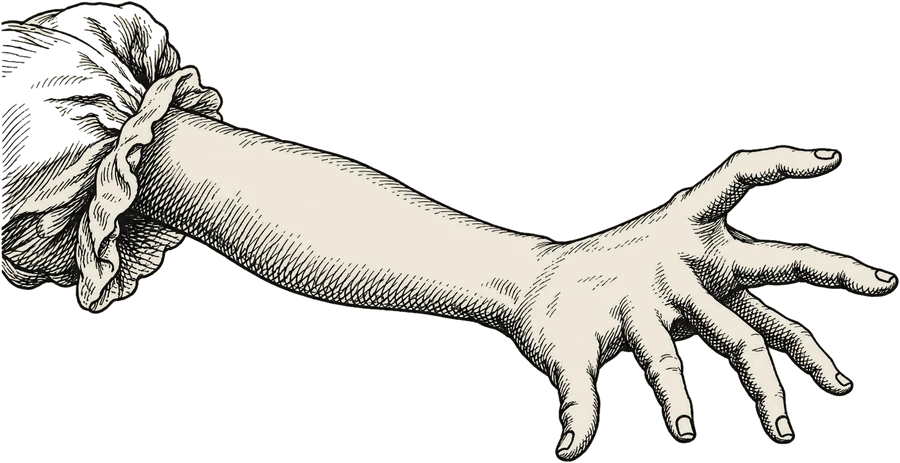
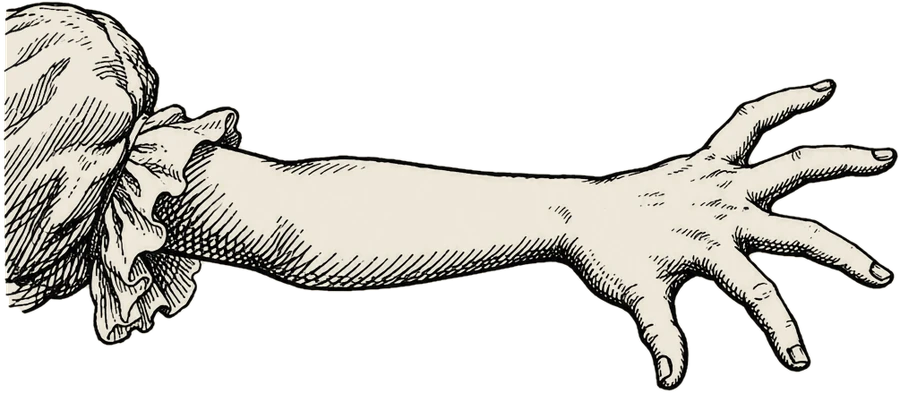
Rabbit's house as a dollhouse view; arm redrawn with five fingers
Inside shots look through a cut-away front of the house, so the whole of
Alice is in the picture as she grows (the window and her arm stay once the
arm is out). She grows until the crouching drawing fills the room. The arm
is redrawn (the first had six fingers) and sized to her. Chapter V's
mushroom shots framed so she and the Caterpillar are whole above the text.
Cue fixes in the house scene. Frame report: no gap over ~7 s in IV or V.

Claude-Session: https://claude.ai/code/session_01JLwjHTre9qSRtmM6Ke648R

diff --git a/src/scenes/rabbit.js b/src/scenes/rabbit.js
@@ -116,8 +116,8 @@ export const rabbitHouse = {
     const start = rabbitHouse.start(cue);
     const T = {
       house: at('house', 1), upstairs: at('upstairs'), dinah: at('dinah'), room: at('room', 1), bottle: at('bottle', 1), uncorked: at('uncorked'),
-      ceiling: at('ceiling'), putDown: at('bottle', 3), kneel: at('kneel'), lying: at('lying'), arm: at('arm', 2), effect: at('bottle', 4),
-      book: at('book'), voice: at('voice'), shook: at('house', 4), door: at('door', 3), window: at('window', 4), snatch: at('snatch', 1),
+      ceiling: at('ceiling'), putDown: at('bottle', 4), kneel: at('kneel'), lying: at('lying'), arm: at('arm', 2), effect: at('effect', 2),
+      book: at('book'), voice: at('voice'), shook: at('house', 4), door: at('door', 1, at('house', 4)), window: at('window', 4), snatch: at('snatch', 1),
       shriek: at('shriek'), pat: at('pat', 1), pat2: at('pat', 2), snatch2: at('snatch', 2), rumbling: at('rumbling'), heads: at('heads'),
       downChimney: at('chimney', 3), kick: at('kick', 2), goes: at('bill', 5), feeble: at('voice', 4), burn: at('burn'), dinah2: at('dinah', 2),
       barrowful: at('barrowful'), pebbles: at('pebbles'), cakes: at('cakes'), swallowed: at('swallowed'), ranOut: at('ran', 1, at('swallowed')),
@@ -131,7 +131,7 @@ export const rabbitHouse = {
     // The room: front wall (with the window), back wall (fireplace and looking-glass), sides, floor, ceiling.
     const RW = ROOM.x1 - ROOM.x0, RH = ROOM.ceil - ROOM.floor, RD = ROOM.z1 - ROOM.z0;
     const wall = (kind, w, pos, rotY) => { const m = new THREE.Mesh(new THREE.PlaneGeometry(w, RH), plain(texture(roomWall(kind)), { transparent: true, alphaTest: 0.5, side: THREE.DoubleSide })); m.position.set(...pos); m.rotation.y = rotY; house.add(m); return m; };
-    wall('window', RW, [(ROOM.x0 + ROOM.x1) / 2, ROOM.floor + RH / 2, ROOM.z1 - 0.01], Math.PI);
+    const windowWall = wall('window', RW, [(ROOM.x0 + ROOM.x1) / 2, ROOM.floor + RH / 2, ROOM.z1 - 0.01], Math.PI);
     wall('fire', RW, [(ROOM.x0 + ROOM.x1) / 2, ROOM.floor + RH / 2, ROOM.z0], 0);
     const doorWall = wall('door', RD, [ROOM.x0, ROOM.floor + RH / 2, (ROOM.z0 + ROOM.z1) / 2], Math.PI / 2);
     wall('fire', RD, [ROOM.x1, ROOM.floor + RH / 2, (ROOM.z0 + ROOM.z1) / 2], -Math.PI / 2);
@@ -140,14 +140,28 @@ export const rabbitHouse = {
     const ceil = floor.clone(); ceil.rotation.x = Math.PI / 2; ceil.position.y = ROOM.ceil; house.add(ceil);
     const table = paperFlat(texture(windowTable()), 0.5, 0.375); table.position.set(0.55, ROOM.floor, ROOM.z1 - 0.12); house.add(table);
     const bottle = paperFlat(texture(plainBottle()), 0.04, 0.08); house.add(bottle);
+    // The dollhouse view (2026-10-14): the room is seen from in front of the house, with the front
+    // cut away over it, so the whole of her is in the picture however large she grows. Once her arm is
+    // out of the window, only the part left of the window is cut, so the window and the arm stay.
+    const cutFront = (x1) => {
+      const V = (x, y) => new THREE.Vector2(x, y), i = 0.03;
+      const shape = new THREE.Shape([V(-HW / 2, 0), V(HW / 2, 0), V(HW / 2, HH), V(-HW / 2, HH)]);
+      shape.holes.push(new THREE.Path([V(ROOM.x0 + i, ROOM.floor + i), V(ROOM.x0 + i, ROOM.ceil - i), V(x1, ROOM.ceil - i), V(x1, ROOM.floor + i)]));
+      const geo = new THREE.ShapeGeometry(shape), uv = geo.attributes.uv, p = geo.attributes.position;
+      for (let n = 0; n < p.count; n++) uv.setXY(n, (p.getX(n) + HW / 2) / HW, p.getY(n) / HH);
+      const m = new THREE.Mesh(geo, front.userData.front.material); house.add(m); return m;
+    };
+    const fullCut = cutFront(ROOM.x1 - 0.03), halfCut = cutFront(WIN.x0 - 0.06);
+    const cutAt = (t) => (t < T.upstairs - 0.5 || t >= T.ranOut - 0.5 ? 'none' : t < T.arm ? 'full' : 'half');
     // Outside: the cucumber-frames under the window, and later the ladders, the barrow.
     const framesWhole = paperFlat(texture(cucumberFrames(false)), 1.4, 0.44), framesBroken = paperFlat(texture(cucumberFrames(true)), 1.4, 0.44);
     for (const f of [framesWhole, framesBroken]) { f.position.set(FRAMES.x, 0, FRAMES.z); group.add(f); }
     const lad = paperFlat(texture(ladder()), 0.5, HH + 0.1); lad.position.set(HW / 2 - 0.25, 0, 0.25); lad.rotation.x = -0.08; group.add(lad);
     const bar = paperFlat(texture(barrow()), 0.6, 0.33); bar.position.set(-1.0, 0, 1.6); group.add(bar);
     // Her arm out of the window, hanging down the front of the house.
-    const arm = paperFlat(ai['ch4/alice_hand'].tex, 1.5, 1.5 / ai['ch4/alice_hand'].aspect, { anchor: 'center' }); // AI, after Tenniel's plate 4.2
-    const armPivot = new THREE.Group(); armPivot.position.set((WIN.x0 + WIN.x1) / 2, (WIN.y0 + WIN.y1) / 2, 0.06); arm.position.x = 0.7; armPivot.add(arm); group.add(armPivot);
+    const ARM = 0.7; // shoulder to fingertips at her full size: it "fills the whole window"
+    const arm = paperFlat(ai['ch4/alice_hand'].tex, ARM, ARM / ai['ch4/alice_hand'].aspect, { anchor: 'center' }); // AI, after Tenniel's plate 4.2
+    const armPivot = new THREE.Group(); armPivot.position.set((WIN.x0 + WIN.x1) / 2, (WIN.y0 + WIN.y1) / 2, 0.06); arm.position.x = ARM * 0.44; armPivot.add(arm); group.add(armPivot);
     // Pebbles on the floor, turning into little cakes.
     const pebTex = texture(pebble()), cakeTex = texture(littleCake());
     const pebs = Array.from({ length: 9 }, (_, i) => {
@@ -162,12 +176,15 @@ export const rabbitHouse = {
     ]);
 
     // --- Alice: maid-sized, then giant, then tiny ---------------------------------
-    const GROWN = 1.55;
+    // She grows until her head is against the ceiling ("had to stoop"), then, kneeling and lying
+    // cramped, until the crouching drawing fills the room's height (it is 1 m tall at scale 1).
+    const HEAD = RH / 1.25, GROWN = (RH - 0.02) / 1.0;
     const scaleAt = (t) => {
-      if (t < T.swallowed) return lerp(MAID, GROWN, smooth((t - T.uncorked - 2) / (T.effect - T.uncorked - 2)));
-      return lerp(GROWN, TINY, smooth((t - T.swallowed - 1) / 4));
+      if (t >= T.swallowed) return lerp(GROWN, TINY, smooth((t - T.swallowed - 1) / 4));
+      if (t < T.ceiling) return lerp(MAID, HEAD, smooth((t - T.uncorked - 2.5) / (T.ceiling - T.uncorked - 2.5)));
+      return lerp(HEAD, GROWN, smooth((t - T.kneel + 1) / (T.effect - T.kneel + 1)));
     };
-    const MID = { x: 0.05, z: -0.55 };
+    const GIANT = { x: -0.33, z: -0.6 }; // against the door, left of the window
     function alice(t) {
       const scale = scaleAt(t);
       if (t < T.upstairs) { // to the door and in
@@ -178,21 +195,21 @@ export const rabbitHouse = {
         const s = route(t, [[T.ranOut, { x: DOORX, z: 0.15, dir: -1 }], [T.held - 1, { x: DOORX - 0.2, z: 0.6 }], [T.ranOff, { x: DOORX - 0.2, z: 0.6 }], [T.ranOff + 3, { x: -3.5, z: 2.2 }]], { phase: t * 3 });
         return { ...s, pose: 'stand', scale, y: 0 };
       }
-      // Inside: in from the door, to the table, then growing until she fills the room.
+      // Inside: in at the door (thinking of Dinah), to the table, to the looking-glass, then growing.
       const s = route(t, [
-        [T.upstairs, { x: ROOM.x0 + 0.1, z: -0.5, dir: 1 }], [T.room, { x: 0.35, z: ROOM.z1 - 0.3 }], [T.bottle, { x: 0.35, z: ROOM.z1 - 0.3 }],
-        [T.bottle + 3, { x: -0.25, z: ROOM.z0 + 0.3, dir: -1 }], [T.putDown, { x: -0.25, z: ROOM.z0 + 0.3 }], [T.kneel, MID],
+        [T.upstairs, { x: ROOM.x0 + 0.15, z: -0.5, dir: 1 }], [T.room - 2, { x: ROOM.x0 + 0.15, z: -0.5 }],
+        [T.room + 1, { x: 0.35, z: ROOM.z1 - 0.3 }], [T.bottle, { x: 0.35, z: ROOM.z1 - 0.3 }],
+        [T.bottle + 3, { x: -0.25, z: ROOM.z0 + 0.3, dir: -1 }], [T.kneel - 1, { x: -0.25, z: ROOM.z0 + 0.3 }], [T.kneel + 1, GIANT],
       ], { phase: t * 2.2 });
-      const lying = smooth((t - T.lying) / 3) * (1 - smooth((t - T.swallowed - 1) / 2));
-      const big = scale * 1.25 > RH;
       // AI poses (2026-10-14): the fan and gloves in her hand; drinking; then cramped, too big for the room.
-      let pose = t >= T.kneel ? 'giant' : 'stand';
+      let pose = 'stand';
       if (!s.moving && t >= T.room + 2 && t < T.bottle) pose = 'hold4';
       if (t >= T.uncorked && t < T.uncorked + 2.5) pose = 'drink';
-      const stoop = !lying && big && t < T.kneel ? Math.min(0.5, (scale * 1.25 - RH) * 2) : 0; // "had to stoop to save her neck"
+      if (t >= T.kneel && scale > 0.4) pose = 'giant';
+      const stoop = pose === 'stand' && t >= T.ceiling - 1 && t < T.kneel ? 0.12 : 0; // "had to stoop to save her neck"
       const trembling = t >= T.shook - 1 && t < T.shook + 4 ? Math.sin(t * 50) * 0.02 : 0;
       const pelted = t >= T.pebbles && t < T.pebbles + 4 ? Math.sin(t * 30) * 0.04 : 0;
-      return { ...s, pose, scale, y: ROOM.floor, tilt: lying * 0.45 + stoop + trembling + pelted, dir: t >= T.kneel ? 1 : s.dir };
+      return { ...s, pose, scale, y: ROOM.floor, tilt: stoop + trembling + pelted, dir: t >= T.kneel ? 1 : s.dir };
     }
 
     // --- The Rabbit, Pat, Bill and the crowd outside ---------------------------------
@@ -205,7 +222,7 @@ export const rabbitHouse = {
         [T.shriek, UNDER], [T.shriek + 0.4, { x: FRAMES.x, z: FRAMES.z + 0.02 }],          // into a cucumber-frame
         [T.pat + 8, { x: FRAMES.x, z: FRAMES.z + 0.02 }], [T.pat + 12, { x: FRAMES.x - 0.6, z: 1.5 }],
         [T.snatch2 - 1, { x: FRAMES.x - 0.6, z: 1.5 }], [T.rumbling + 3, { x: -0.6, z: 1.9 }],
-        [T.ranOut, { x: -0.6, z: 1.9 }], [T.held, { x: DOORX - 0.6, z: 1.0 }],
+        [T.ranOut, { x: -0.6, z: 1.9 }], [T.held, { x: DOORX + 1.0, z: 1.4 }],
       ], { pose: 'watch', phase: t * 2.4 });
       const tumble = fell && t < T.pat + 10 ? Math.min(1, (t - T.shriek) / 0.4) : 0;
       return { ...s, tilt: tumble * 1.2, y: -tumble * 0.12, dir: t > T.pat + 12 && !s.moving ? 1 : s.dir };
@@ -268,6 +285,8 @@ export const rabbitHouse = {
         const cake = smooth((t - T.cakes - i * 0.3) / 0.6);
         p.visible = landed && cake < 0.5; c.visible = landed && cake >= 0.5 && !(i === 0 && t >= T.swallowed);
       }
+      const cut = cutAt(t);
+      front.visible = cut === 'none'; fullCut.visible = cut === 'full'; halfCut.visible = cut === 'half'; windowWall.visible = cut === 'none';
       // The house trembles with her.
       house.position.x = t >= T.shook - 1 && t < T.shook + 4 ? Math.sin(t * 47) * 0.01 : 0;
       doorWall.position.z = (ROOM.z0 + ROOM.z1) / 2 + (t >= T.door && t < T.door + 3 ? Math.sin(t * 30) * 0.006 : 0); // the Rabbit tries the door
@@ -275,46 +294,63 @@ export const rabbitHouse = {
     }
 
     const IN = (pos, look) => ({ pos, look });
-    const inside = {
-      door: IN([0.85, 1.85, -0.15], [ROOM.x0, 1.75, -0.6]),
-      table: IN([-0.1, 1.85, -0.75], [0.5, 1.75, ROOM.z1]),
-      glass: IN([0.55, 1.8, -0.2], [-0.45, 1.75, ROOM.z0]),
-      wide: IN([-0.68, 2.2, -0.1], [0.4, 1.75, -0.75]),   // from the door corner: the table stays out of the lens
-      low: IN([-0.68, 1.6, -0.12], [0.3, 1.95, -0.7]),
+    // Inside: the dollhouse view, from in front of the house through its cut-away front.
+    const CUT = {
+      room: IN([0.1, 1.9, 2.4], [0.1, 1.75, -0.5]),          // the whole room
+      door: IN([-0.35, 1.9, 1.8], [-0.45, 1.78, -0.5]),      // by the door
+      table: IN([0.45, 1.88, 1.6], [0.35, 1.75, -0.4]),      // the table in the window
+      glass: IN([-0.15, 1.9, 1.7], [-0.25, 1.78, -0.8]),     // the bottle by the looking-glass
+      her: IN([-0.15, 1.92, 2.1], [-0.25, 1.8, -0.6]),       // filling the room
+      near: IN([-0.3, 1.97, 1.4], [-0.33, 1.86, -0.6]),      // closer: her face
+      both: IN([0.1, 1.95, 2.7], [-0.05, 1.82, -0.4]),       // her, and the window with her arm out of it
+      floor: IN([0.0, 1.85, 1.3], [-0.1, 1.55, -0.6]),       // the pebbles turning into cakes
+      small: IN([-0.3, 1.62, 0.9], [-0.33, 1.52, -0.6]),     // shrinking
     };
     const OUT = {
       wide: IN([0.3, 1.7, 7.5], [0.2, 1.6, 0]),
       door: IN([-0.6, 0.7, 2.6], [DOORX, 0.6, 0]),
-      window: IN([FRAMES.x + 0.9, 1.0, 2.9], [FRAMES.x - 0.2, 1.0, 0.3]),
+      house: IN([0.6, 1.4, 5.6], [0.2, 0.95, 0]),            // the house, her in it, the arm, the frames below
+      window: IN([0.8, 1.6, 3.4], [0.35, 1.5, 0]),           // "what's that in the window?"
       frames: IN([FRAMES.x + 0.6, 0.5, 2.2], [FRAMES.x - 0.1, 0.25, FRAMES.z]),
-      roof: IN([1.6, HH + 0.4, 3.4], [CHIMNEY.x, HH - 0.2, 0]),
+      roof: IN([1.2, 2.7, 4.6], [0.45, 2.15, 0]),            // the roof and the chimney, and her below
       sky: IN([1.6, 1.8, 6.0], [1.4, 2.6, 0.8]),
-      crowd: IN([0.2, 0.9, 4.6], [0.3, 0.4, 1.2]),
+      crowd: IN([0.4, 1.3, 6.2], [0.5, 0.9, 0.6]),           // the crowd below, and the house
     };
+    // Cuts (dur 0) wherever the front changes, so the cut-away never appears or vanishes in view.
     const k = (t, dur, s) => ({ t, dur, ...s });
     const camera = cameraTrack([
       k(start, 0, OUT.wide), k(start + 0.5, 4, OUT.door),                            // "a neat little house" and its brass plate
-      k(T.upstairs - 0.5, 0, inside.door), k(T.room - 1, 3, inside.table),           // "a tidy little room with a table in the window"
-      k(T.bottle - 1, 2, inside.glass),                                              // the bottle near the looking-glass
-      k(T.uncorked + 4, 4, inside.wide), k(T.kneel, 6, inside.low),                  // growing, and growing
-      k(T.arm + 2, 2, OUT.window),                                                   // the arm out of the window
-      k(T.effect, 3, inside.low),                                                    // "what will become of me?"
-      k(T.voice - 1, 2, inside.door),                                                // "Mary Ann! Mary Ann!"
-      k(T.shook - 1, 1, inside.wide),
-      k(T.window - 1, 2, OUT.window), k(T.shriek, 1, OUT.frames),                    // the snatch, and the cucumber-frame
-      k(T.pat - 1, 3, OUT.window), k(T.snatch2 - 1, 1, OUT.frames),
-      k(T.snatch2 + 6, 3, inside.low),                                               // waiting
-      k(T.rumbling, 4, OUT.crowd), k(T.heads - 2, 3, OUT.wide),                      // the cart, the ladders, "Heads below!"
-      k(T.downChimney, 3, OUT.roof),                                                 // Bill to the chimney
-      k(T.kick - 4, 2, inside.low),                                                  // her foot up the chimney
-      k(T.kick, 0.5, OUT.sky),                                                       // "There goes Bill!"
-      k(T.feeble - 3, 3, OUT.crowd),
-      k(T.burn, 2, inside.wide),                                                     // "If you do, I'll set Dinah at you!"
-      k(T.barrowful - 1, 3, OUT.crowd), k(T.pebbles - 0.5, 1, inside.low),           // the pebbles
-      k(T.cakes, 2, IN([0.6, 1.62, -0.15], [0.0, ROOM.floor, -0.6])),                // turning into little cakes
-      k(T.swallowed + 1, 3, inside.wide),
-      k(T.ranOut - 0.5, 0, IN([DOORX + 0.5, 0.25, 1.4], [DOORX, 0.12, 0.2])),        // out of the door, tiny, and the crowd
-      k(T.held, 3, IN([DOORX + 0.9, 0.3, 1.9], [DOORX + 0.1, 0.15, 0.9])),
+      k(T.upstairs - 0.5, 0, CUT.room),                                              // in at the door upstairs
+      k(T.dinah - 8, 8, CUT.door),                                                   // thinking of Dinah
+      k(T.room - 2, 4, CUT.room), k(T.room + 1.5, 3, CUT.table),                     // "a tidy little room with a table in the window"
+      k(T.bottle - 0.5, 3, CUT.glass),                                               // the bottle near the looking-glass
+      k(T.uncorked + 3, 6, CUT.room),                                                // growing
+      k(T.ceiling - 3, 4, CUT.her), k(T.putDown, 5, CUT.near),                       // the ceiling; "That's quite enough"
+      k(T.kneel - 2, 5, CUT.her),                                                    // kneeling, lying down
+      k(T.arm, 0, OUT.house), k(T.arm + 4, 4, OUT.window),                           // the arm out of the window
+      k(T.effect, 0, CUT.both), k(T.effect + 13, 8, CUT.near),                       // "it was much pleasanter at home"
+      k(T.book - 4, 6, CUT.her), k(T.book + 14, 8, CUT.near),
+      k(T.voice - 4, 5, CUT.both),                                                   // a voice outside; trembling
+      k(T.door - 1, 3, CUT.door),                                                    // the Rabbit at the door
+      k(T.window - 1, 0, OUT.house),                                                 // round to the window
+      k(T.shriek, 0, OUT.frames), k(T.shriek + 5, 0, CUT.her),                       // the shriek, the cucumber-frame
+      k(T.pat - 3, 0, OUT.house), k(T.pat2 - 1, 4, OUT.window),                      // Pat; "what's that in the window?"
+      k(T.pat2 + 18, 0, CUT.near),                                                   // a long silence, and whispers
+      k(T.snatch2 - 1, 0, OUT.house), k(T.snatch2 + 2, 0, OUT.frames),               // the second snatch
+      k(T.snatch2 + 6, 0, CUT.her),                                                  // "What a number of cucumber-frames"
+      k(T.rumbling - 1, 0, OUT.crowd), k(T.rumbling + 10, 6, OUT.house),             // the cart, the ladders
+      k(T.heads - 3, 3, OUT.roof), k(T.heads + 4, 0, CUT.near),                      // "Heads below!"
+      k(T.downChimney + 8, 0, OUT.roof),                                             // Bill up the ladder to the chimney
+      k(T.kick - 9, 0, CUT.her),                                                     // her foot down the chimney
+      k(T.kick - 0.5, 0, OUT.sky), k(T.kick + 4, 4, OUT.crowd),                      // "There goes Bill!"
+      k(T.feeble - 5, 0, CUT.near), k(T.feeble, 0, OUT.crowd),                       // Bill's feeble voice
+      k(T.burn - 1, 0, CUT.her), k(T.dinah2 + 2, 4, CUT.near),                       // "I'll set Dinah at you!"
+      k(T.barrowful - 2, 0, OUT.crowd),                                              // "A barrowful will do"
+      k(T.pebbles - 1, 0, CUT.her),                                                  // the pebbles in at the window
+      k(T.cakes - 3, 4, CUT.floor),                                                  // turning into little cakes
+      k(T.swallowed, 3, CUT.her), k(T.swallowed + 3, 3, CUT.small),                  // shrinking
+      k(T.ranOut - 0.5, 0, IN([DOORX - 0.7, 0.28, 1.6], [DOORX - 0.05, 0.12, 0.5])),   // out of the door, tiny, and the crowd
+      k(T.held, 3, IN([DOORX - 0.8, 0.32, 1.9], [DOORX + 0.05, 0.14, 0.75])),
     ]);
     return {
       T, bg: PAPER, fog: [9, 30], bounds: { minX: -2.5, maxX: 2.5, minZ: 0.8, maxZ: 6 },
@@ -408,7 +444,7 @@ export const wood = {
       { t: T.escape, dur: 6, pos: [-0.6, 0.15, 0.6], look: [-1.2, 0.08, -0.2] },               // running till she was quite tired
       { t: T.buttercup - 1, dur: 3, pos: [-1.05, 0.12, 0.25], look: [BC.x, 0.12, BC.z] },       // leaning against a buttercup
       { t: T.mushroom - 1, dur: 4, pos: [-1.35, 0.11, 0.2], look: [MU.x, 0.1, MU.z] },          // the mushroom
-      { t: T.caterpillar - 1, dur: 2, pos: [-1.55, 0.2, -0.2], look: [MU.x, 0.17, MU.z] },      // eyes met those of a large blue caterpillar
+      { t: T.caterpillar - 1, dur: 2, pos: [-1.4, 0.16, 0.05], look: [MU.x + 0.02, 0.1, MU.z] },       // eyes met those of a large blue caterpillar
     ]);
     return {
       T, bg: PAPER, fog: [6, 24], bounds: null, hotspots: [],

diff --git a/src/scenes/caterpillar.js b/src/scenes/caterpillar.js
@@ -104,17 +104,21 @@ export const mushroomTalk = {
       const a = alice(t);
       think(t, { x: a.x + 0.12, y: 0.19, z: a.z - 0.02 }, 0.1);
     }
+    // (2026-10-14) Framed a little higher, so her feet are above the text strip, and both she and the
+    // Caterpillar are in the conversation shot.
+    const TALK = { pos: [0.25, 0.11, 0.48], look: [0.02, 0.1, 0] };
     const camera = cameraTrack([
-      { t: 0, dur: 0, pos: [0.28, 0.13, 0.42], look: [0.04, 0.12, 0] },                        // looking at each other in silence
-      { t: 8, dur: 4, pos: [0.16, 0.09, 0.3], look: [0.02, 0.15, 0] },                         // "Who are you?"
-      { t: T.gravely - 1, dur: 2, pos: [0.3, 0.1, 0.32], look: [0.08, 0.11, 0.05] },
-      { t: T.turned, dur: 3, pos: [0.45, 0.14, 0.5], look: [0.15, 0.1, 0.05] },                // turning away, and coming back
-      { t: T.back + 3, dur: 3, pos: [0.16, 0.09, 0.3], look: [0.02, 0.15, 0] },
-      { t: T.folded - 1, dur: 3, pos: [0.38, 0.12, 0.42], look: [0.18, 0.11, 0.05] },          // Father William, in Tenniel's plates
-      { t: T.notRight, dur: 3, pos: [0.16, 0.09, 0.3], look: [0.02, 0.15, 0] },
+      { t: 0, dur: 0, pos: [0.3, 0.13, 0.5], look: [0.04, 0.1, 0] },                           // looking at each other in silence
+      { t: 8, dur: 4, ...TALK },                                                               // "Who are you?"
+      { t: T.gravely - 1, dur: 2, pos: [0.34, 0.11, 0.42], look: [0.08, 0.1, 0.05] },
+      { t: T.turned, dur: 3, pos: [0.45, 0.14, 0.55], look: [0.15, 0.09, 0.05] },                // turning away, and coming back
+      { t: T.back + 3, dur: 3, ...TALK },
+      { t: T.folded - 1, dur: 3, pos: [0.38, 0.12, 0.42], look: [0.18, 0.09, 0.05] },          // Father William, in Tenniel's plates
+      { t: T.notRight, dur: 3, ...TALK },
       { t: T.rearing - 1, dur: 1.5, pos: [0.12, 0.13, 0.22], look: [0.01, 0.2, 0] },           // "a very good height indeed!"
+      { t: T.rearing + 5, dur: 3, ...TALK },
       { t: T.crawled - 1, dur: 4, pos: [0.3, 0.12, 0.45], look: [0.15, 0.06, -0.05] },
-      { t: T.broke - 2, dur: 3, pos: [0.14, 0.12, 0.28], look: [0.02, 0.1, 0.03] },            // a bit of the edge with each hand
+      { t: T.broke - 2, dur: 3, pos: [0.14, 0.12, 0.28], look: [0.02, 0.08, 0.03] },            // a bit of the edge with each hand
       { t: T.blow - 0.3, dur: 1, pos: [0.1, 0.05, 0.2], look: [0.04, 0.03, 0.05] },             // chin against her foot
     ]);
     return {

diff --git a/docs/HANDOFF.md b/docs/HANDOFF.md
@@ -19,14 +19,15 @@ Updated: 2026-10-13 (end of session 3: Chapters I–II art in, Chapter III's Ali
   - **Riverbank ground** (2026-10-14, owner): meadow grass with daisies tiled over the floor and a grassy bank lip in front (`tools/bank_art.py`; `BANK_TILE` in stage.js = 1.6 m per tile). Later, at Chapter XII: the pool with reeds beside the bank (owner: "at the right time").
   - **Chapter II**: complete (all 36): Alice ×13, Rabbit ×3, Mouse ×4, the four birds swimming and standing, gloves, splash, pool water, shore stones, 7 thoughts.
   - **Chapter III**: all 8 Alice poses and the four birds standing; the rest placeholder.
-  - **Chapter V**: the Caterpillar (blue), also at Chapter IV's end. **Chapter VI**: the Cheshire Cat in the wood (on his bough, the empty bough, the grin alone); the Cat on the kitchen hearth (prompt 22), the Duchess (all her poses, prompts 14–16), the Footmen (10–13: the letter is in the Fish-Footman's drawing, the bow is one drawing of both), the Cook (17, 18), the baby and the pig (19–21; the snout drawing also stands for the pig in its clothes), the kitchen's back wall (23; the side walls are still drawn in code). Alice's 9 poses (2026-10-14: laughing, peeping, knocking, sneezing, jumping in terror, catching and holding the baby, carrying it, the pig, from behind under the Cat). Camera re-directed (2026-10-14): Alice in the picture at least every ~10 s (frame_report). Sets and props done 2026-10-14: the little house (also V), the March Hare's house (also VII), the kitchen's side walls (kitchen made deeper so the camera stays inside), the thrown things. Not needed: the stool (hidden by her skirts, owner), the pepper-box (in the Cook's drawing), a separate bough tree (the Cat's drawing has its bough). The Cat waving and the two thoughts done too: **Chapter VI's art is complete** apart from the extras the owner ruled out.
+  - **Chapter IV** (2026-10-14): Alice's 8 poses (holding the fan and gloves, drinking, cramped giant with an arm round her head, her arm out of the window (`ch4/alice_hand`, after plate 4.2), pebbles (unused so far), holding out the stick, by the buttercup, on tiptoe; hunting for the fan reuses `stoop`: the filter refused bending poses). **The Rabbit's house is a dollhouse view**: inside shots are taken from in front of the house through a cut-away front (the whole room cut until her arm goes out, then only the part left of the window, so the window and the arm stay); she grows until the crouching drawing just fills the room. Cue fixes: put-down bottle, "full effect", the Rabbit at the door. frame_report: no gap over ~7 s. Still placeholder: Bill, the guinea-pigs, Pat, the puppy, the Chapter III crowd.
+  - **Chapter V**: the Caterpillar (blue), also at Chapter IV's end. Alice's 7 poses (2026-10-14: looking up, grave, turned away, reciting with folded hands (`recite5`), breaking the mushroom, nibbling, squashed); mushroom shots framed so both she and the Caterpillar are whole above the text. Still placeholder: the Pigeon, the long neck. **Chapter VI**: the Cheshire Cat in the wood (on his bough, the empty bough, the grin alone); the Cat on the kitchen hearth (prompt 22), the Duchess (all her poses, prompts 14–16), the Footmen (10–13: the letter is in the Fish-Footman's drawing, the bow is one drawing of both), the Cook (17, 18), the baby and the pig (19–21; the snout drawing also stands for the pig in its clothes), the kitchen's back wall (23; the side walls are still drawn in code). Alice's 9 poses (2026-10-14: laughing, peeping, knocking, sneezing, jumping in terror, catching and holding the baby, carrying it, the pig, from behind under the Cat). Camera re-directed (2026-10-14): Alice in the picture at least every ~10 s (frame_report). Sets and props done 2026-10-14: the little house (also V), the March Hare's house (also VII), the kitchen's side walls (kitchen made deeper so the camera stays inside), the thrown things. Not needed: the stool (hidden by her skirts, owner), the pepper-box (in the Cook's drawing), a separate bough tree (the Cat's drawing has its bough). The Cat waving and the two thoughts done too: **Chapter VI's art is complete** apart from the extras the owner ruled out.
   - **Chapters IX–X**: the Mock Turtle, every pose (sitting, sobbing into a handkerchief, counting, hiding his face, dancing, singing, yawning; the rock taken out of the sitting drawing so he sits on the set's ledge; puppet `drop` lets his tail hang below his hooves), and the Duchess in Chapter IX (arm in arm, trembling, running). `tools/ch9_art.py` processes both and prints each drawing's height and drop. The Gryphon, every pose (sitting, asleep, walking, paws up, hiding his face, dancing, bounding), 2026-10-14. Chapter XII's dream shows the new Duchess, baby, Gryphon and Mock Turtle.
   - **Chapter VII (and XI, XII)**: the Hatter (sitting: staring, riddle, watch; as a witness: teacup, pale, biting the cup, shoes shaken off, on one knee, running), the March Hare (sitting, dipping the watch), the Dormouse (asleep, telling his story), 2026-10-14 (`tools/ch7_art.py`). The safety filter blocks some Hatter prompts at random: reword and retry.
   - **Court cards (VIII–XII)**: the Queen (7 poses incl. crimson and purple faces), the King (standing; as judge ×5), the Knave (carrying the crown, standing, in chains), the executioner (Ace of Spades), 2026-10-14.
   - **The gardeners Two, Five, Seven** (2026-10-14): fully drawn, pips checked. The rose-tree (roses placed by the game at `SPOTS` in sets/croquet.js, white or painted red), and the card back lying face down (one drawing for the whole pack; turned over, the gardener's own drawing lies flat).
   - **Card people plan (owner, 2026-10-14):** cards with parts in the story are drawn as characters (done: Queen, King, Knave, executioner, gardeners). The crowds (soldiers with clubs, courtiers with diamonds, the royal children, the officers) are blank-faced bodies per class (~8-10 drawings) with pips placed by the game, but the pips are four engraved AI suit signs (not flat code shapes), bent with the card. The guests "mostly Kings and Queens" are court cards: the Kings and Queens of Clubs, Diamonds, Spades and the Knave of Spades, one standing drawing each.
   - **Crowd cards done (2026-10-14)**: `src/cards.js` `crowdCard(ai, who, h)` composes any number card from its class body + the engraved suit sign (pips only on blank paper, so hands/bags hide them), and returns the guest court cards; the croquet arches are a soldier bent into a hoop.
-  - Still to generate (owner, 2026-10-14: every character): Bill, the guinea-pigs, Pat, the puppy (IV), the Pigeon (V), the Owl, Magpie, Canary, crabs (III), flamingos, hedgehogs (VIII), the jurors (XI), and Alice's poses for IV, V, VII–XII.
+  - Still to generate (owner, 2026-10-14: every character): Bill, the guinea-pigs, Pat, the puppy (IV), the Pigeon (V), the Owl, Magpie, Canary, crabs (III), flamingos, hedgehogs (VIII), the jurors (XI), and Alice's poses for III (done), VII–XII.
   - The rest of the book is placeholder art drawn in code.
 - **Alice's walk**: two matching steps from one drawing (`alice_walk_pair`); keep it. **Do not generate the walk cycle** (owner, 2026-10-13: the owner will make it later; the API attempts got the arms and legs wrong).
 - **Chapter I's audio starts with 4.14 s of added silence** (owner, 2026-10-14: a 5 s hold in the theatre seat before "CHAPTER I"; `lead_silence` in ch01_words.json, all times shifted). If `tools/narration.py`/`forced_align.py` is ever rerun for Chapter I, add the silence and the shift again (original audio: `ffmpeg -ss 4.14`).

diff --git a/docs/ASSETS_MASTER.md b/docs/ASSETS_MASTER.md
@@ -1,7 +1,7 @@
 # Master Asset List
 Generated by `tools/assets_master.py` from the chapter lists. **Don't edit by hand**: change the chapter list in `docs/ART_PROMPTS.md` (and the reasons in `docs/CHAPTER_NN_ASSETS.md`), then run the script.
 
-**Progress:** 152 of 371 images received. A box is ticked when a file with that name is in `source/ai/`.
+**Progress:** 167 of 371 images received. A box is ticked when a file with that name is in `source/ai/`.
 
 ## How to use this document
 1. Use **one ChatGPT conversation** for everything, so the style and the characters stay the same.
@@ -226,15 +226,15 @@ Background and sources: [CHAPTER_04_ASSETS.md](CHAPTER_04_ASSETS.md). Same conve
 
 ### Alice (whole figures on white unless stated, three-quarter view facing left)
 - [ ] **1.** `alice4_hunt.png`: "Same Alice, full figure: bent forward, hunting about on the ground for something she has lost."
-- [ ] **2.** `alice4_hold.png`: "Same Alice, full figure: holding a folding fan and a pair of small gloves in one hand, turning her head to look at something on a table behind her."
-- [ ] **3.** `alice4_drink.png`: "Same Alice, full figure: drinking from a small bottle, head tipped back."
-- [ ] **4.** `alice4_giant.png` (landscape; attach 4.1): "Our Alice in Tenniel's pose from this plate: so large she fills a small room, lying on her side, one elbow pressed against the door, the other arm out of the window, one foot up the chimney, her head bent under the ceiling. Draw the room around her as in the plate, our Alice's face and hair."
-- [ ] **5.** `alice4_hand.png` (attach 4.2): "Our Alice's enormous arm and hand reaching out of a small cottage window, fingers spread, snatching at the air, as in this plate. Just the arm, hand and window; white background."
+- [x] **2.** `alice4_hold.png`: "Same Alice, full figure: holding a folding fan and a pair of small gloves in one hand, turning her head to look at something on a table behind her."
+- [x] **3.** `alice4_drink.png`: "Same Alice, full figure: drinking from a small bottle, head tipped back."
+- [x] **4.** `alice4_giant.png` (landscape; attach 4.1): "Our Alice in Tenniel's pose from this plate: so large she fills a small room, lying on her side, one elbow pressed against the door, the other arm out of the window, one foot up the chimney, her head bent under the ceiling. Draw the room around her as in the plate, our Alice's face and hair."
+- [x] **5.** `alice4_hand.png` (attach 4.2): "Our Alice's enormous arm and hand reaching out of a small cottage window, fingers spread, snatching at the air, as in this plate. Just the arm, hand and window; white background."
 - [ ] **6.** `alice4_foot.png`: "Our Alice's enormous foot in a white stocking and strap shoe, pushed up into a narrow fireplace and chimney, about to kick. Just the foot and fireplace."
-- [ ] **7.** `alice4_pebbles.png`: "Same Alice, head and shoulders, wincing and shielding her face with one hand as small pebbles fly at her."
-- [ ] **8.** `alice4_stick.png` (attach 4.4): "Same Alice in Tenniel's pose from this plate: half behind a great thistle, holding out a small stick, frightened. Our Alice's face and dress."
-- [ ] **9.** `alice4_buttercup.png`: "Same Alice, full figure: leaning against the stalk of a buttercup taller than she is, fanning herself with a leaf, out of breath."
-- [ ] **10.** `alice4_tiptoe.png`: "Same Alice, full figure: standing on tiptoe, peeping over the edge of something just above her head."
+- [x] **7.** `alice4_pebbles.png`: "Same Alice, head and shoulders, wincing and shielding her face with one hand as small pebbles fly at her."
+- [x] **8.** `alice4_stick.png` (attach 4.4): "Same Alice in Tenniel's pose from this plate: half behind a great thistle, holding out a small stick, frightened. Our Alice's face and dress."
+- [x] **9.** `alice4_buttercup.png`: "Same Alice, full figure: leaning against the stalk of a buttercup taller than she is, fanning herself with a leaf, out of breath."
+- [x] **10.** `alice4_tiptoe.png`: "Same Alice, full figure: standing on tiptoe, peeping over the edge of something just above her head."
 
 ### The White Rabbit
 - [ ] **11.** `rabbit4_search.png`: "The White Rabbit trotting slowly, looking anxiously about at the ground as if he had lost something. Side view facing left."
@@ -282,13 +282,13 @@ Background and sources: [CHAPTER_05_ASSETS.md](CHAPTER_05_ASSETS.md). Same conve
 **References to download first:** 5.1 (the Caterpillar) https://victorianweb.org/art/illustration/tenniel/alice/5.1.html. The Father William plates 5.2–5.5 are recommended for use as they are (no prompts needed); prompts 18–21 are only if you'd rather have new drawings.
 
 ### Alice (whole figures on white, three-quarter view facing left unless stated)
-- [ ] **1.** `alice5_lookup.png` (attach 5.1): "Same Alice, full figure: standing, looking up at something just above her head, hands behind her back, polite and a little shy."
-- [ ] **2.** `alice5_grave.png`: "Same Alice, full figure: drawing herself up very straight and grave, chin raised."
-- [ ] **3.** `alice5_away.png`: "Same Alice, full figure: turning away, seen three-quarter from behind, offended."
-- [ ] **4.** `alice5_recite.png`: "Same Alice, full figure: standing with her hands folded in front of her, reciting a poem."
-- [ ] **5.** `alice5_break.png`: "Same Alice, full figure: arms stretched wide round the edge of something round at shoulder height, breaking off a piece with each hand."
-- [ ] **6.** `alice5_squashed.png`: "Same Alice, shrunk so suddenly that her chin is pressed against her foot: a crouched, squashed figure, frightened, holding a bit of mushroom."
-- [ ] **7.** `alice5_nibble.png`: "Same Alice, full figure: nibbling a small piece held in one hand, another piece in the other hand."
+- [x] **1.** `alice5_lookup.png` (attach 5.1): "Same Alice, full figure: standing, looking up at something just above her head, hands behind her back, polite and a little shy."
+- [x] **2.** `alice5_grave.png`: "Same Alice, full figure: drawing herself up very straight and grave, chin raised."
+- [x] **3.** `alice5_away.png`: "Same Alice, full figure: turning away, seen three-quarter from behind, offended."
+- [x] **4.** `alice5_recite.png`: "Same Alice, full figure: standing with her hands folded in front of her, reciting a poem."
+- [x] **5.** `alice5_break.png`: "Same Alice, full figure: arms stretched wide round the edge of something round at shoulder height, breaking off a piece with each hand."
+- [x] **6.** `alice5_squashed.png`: "Same Alice, shrunk so suddenly that her chin is pressed against her foot: a crouched, squashed figure, frightened, holding a bit of mushroom."
+- [x] **7.** `alice5_nibble.png`: "Same Alice, full figure: nibbling a small piece held in one hand, another piece in the other hand."
 - [ ] **8.** `alice5_head.png`: "Same Alice, head only, turned to the left, surprised, as if at the top of an immensely long neck. Draw the head and the top of the neck only; the neck ends in a clean edge at the bottom." (The game draws the long neck.)
 
 ### The Caterpillar (attach 5.1; the game colours him blue)

diff --git a/PROVENANCE.md b/PROVENANCE.md
@@ -144,6 +144,7 @@ Every shipped asset is listed here with its source. AI-generated or AI-modified 
 | ai_vignette_globe | `public/art/ai/vignettes/globe.webp` | AI | Chapter I prompt 38, remade (owner, 2026-10-14) to show latitude, longitude and the 4000 miles to the centre; original `source/ai/vignette_globe.png` | OpenAI gpt-image-2.5-sunburst via the API (generated by Claude Code, 2026-10-14) | Whole image generated. Paper-tinted, fitted to the thought oval (`tools/ch1_art.py`). Used in Chapter I, the fall. | 2026-10-14 | Owner (requested), Claude Code (generated, processed) |
 | ai_alice3_call_v2 | `public/art/ai/poses/call.webp` | AI | Second version of Chapter III prompt 7; original in `source/ai/alice3_call_v2.webp` | OpenAI ChatGPT (GPT-6 chat); OpenAI image generation, exact image model not disclosed; received 2026-10-12 | Whole image generated. Cut out, paper-tinted and scaled to the standing Alice (`tools/compose_poses.py`). Replaces the first version (kept as a spare). | 2026-10-12 | Owner (generated), Claude Code (processed) |
 | ai_alice6_poses | `public/art/ai/poses/peep.webp`, `laugh`, `knock`, `sneeze`, `baby`, `pig`, `terror`, `back`, `catch` | AI | Chapter VI prompts 1–9; originals in `source/ai/alice6_*.png`, from the model sheet `source/ai/alice_turnaround.webp` (with Tenniel's plates 6.3 and 6.4 cropped to Alice for the baby, pig and from-behind poses: `source/plates/tenniel_w06-3_alice_only.png`, `tenniel_w06-4_alice_back_only.png`) | OpenAI gpt-image-2.5-sunburst via the API (generated by Claude Code, 2026-10-14) | Whole images generated. Cut out, paper-tinted and scaled to the standing Alice with `tools/compose_poses.py`. Used in Chapter VI. | 2026-10-14 | Owner (approved), Claude Code (generated, processed) |
+| ai_alice45_poses | `public/art/ai/poses/hold4.webp`, `drink`, `giant`, `pebbles`, `stick`, `buttercup`, `tiptoe`, `lookup`, `grave`, `away`, `recite5`, `break`, `nibble`, `squashed`; `public/art/ai/ch4/alice_hand.webp` | AI | Chapter IV and V Alice prompts; originals in `source/ai/alice4_*.png` and `source/ai/alice5_*.png`, from the model sheet `source/ai/alice_turnaround.webp` (the arm after Tenniel's plate 4.2, cropped to the arm: `source/plates/tenniel_w04-2_hand_only.png`; redrawn the same day after the owner saw six fingers: now one thumb and four fingers, sleeve filled in by hand-coded column fill; plates 4.1, 4.2, 4.4 from victorianweb.org in `source/plates/`) | OpenAI gpt-image-2.5-sunburst via the API (generated by Claude Code, 2026-10-14) | Whole images generated. Cut out, paper-tinted and scaled to the standing Alice with `tools/compose_poses.py`. Used in Chapters IV and V. | 2026-10-14 | Owner (approved), Claude Code (generated, processed) |
 | ai_alice_walk_pair | `public/art/ai/poses/walk_a.webp`, `walk_b.webp` | AI | Alice walking, two matching steps in one drawing (owner, 2026-10-13); original in `source/ai/alice_walk_pair.webp` | OpenAI ChatGPT (GPT-6 chat); OpenAI image generation, exact image model not disclosed; received 2026-10-13 | Whole image generated. Split in two, cut out, paper-tinted and scaled to the standing Alice (`tools/compose_poses.py`). Replaces the earlier walk_a and the walk_b phone screenshot (both kept in source/ai). | 2026-10-13 | Owner (generated), Claude Code (processed) |
 | rabbit_white | `public/art/rabbit_w01-1_white.png`, `public/art/ai/ch1/rabbit_*.webp`, `public/art/ai/ch2/rabbit2_*.webp` | (see each Rabbit row) | The same Rabbit drawings | — | Paper tint taken off so he is pure white, pink eyes kept (owner, 2026-10-13; `tools/white_rabbit.py`). | 2026-10-13 | Claude Code |
 | ai_caterpillar_sit | `public/art/ai/ch5/caterpillar_sit.webp` | AI | Chapter V prompt 9 (docs/ASSETS_MASTER.md); original in `source/ai/caterpillar_sit.png` | OpenAI gpt-image-2 via the API (generated by Claude Code, 2026-10-13), from Tenniel's plate 5.1 cropped to the Caterpillar (source/plates/tenniel_w05-1_caterpillar_only.png) and the first version (source/ai/caterpillar_sit_v1.png) | Whole image generated. Cut out, the drawn mushroom cap removed, the Caterpillar coloured blue (COLOR.md) (`tools/ch5_art.py`). Used in Chapter IV's end and Chapter V. | 2026-10-13 | Owner (approved), Claude Code (generated, processed) |
